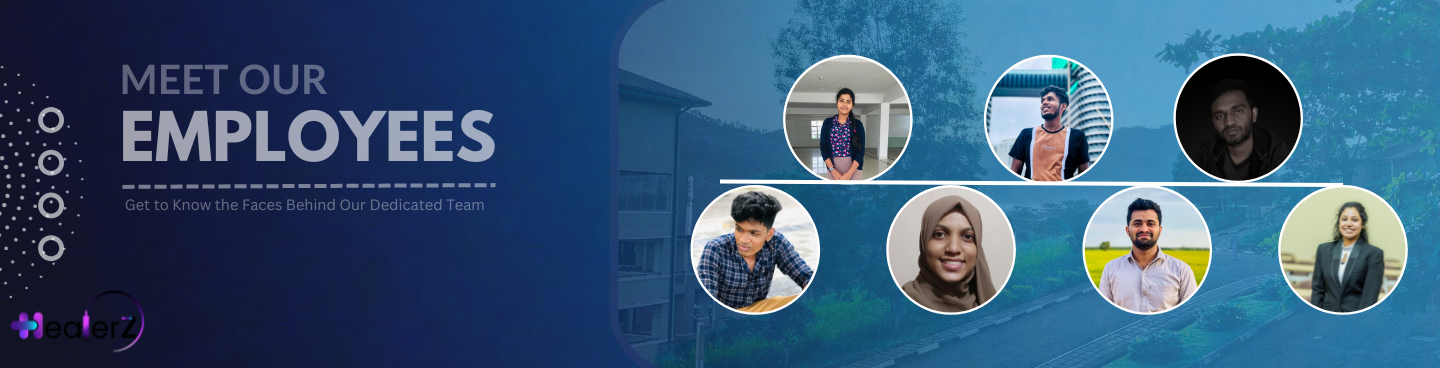
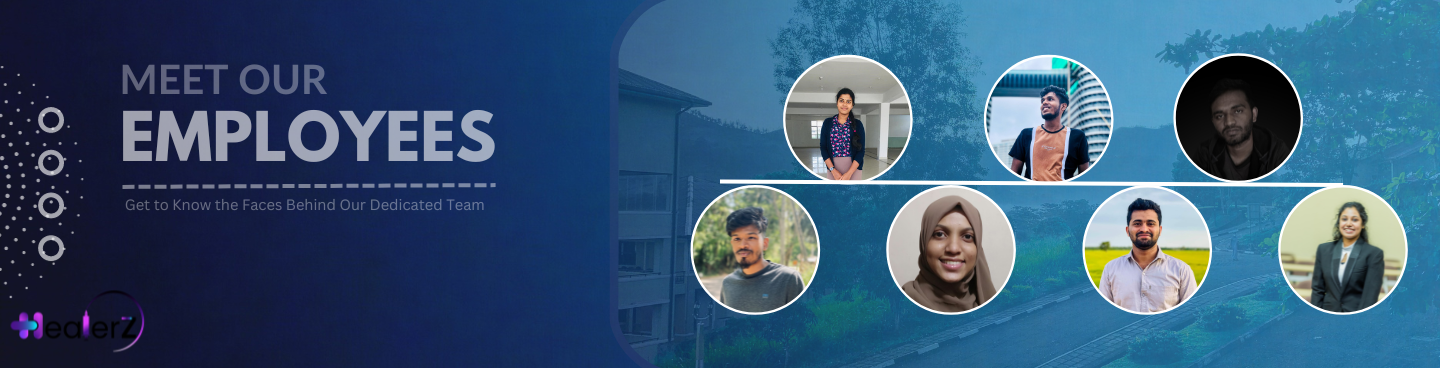
phoro chnaged

Changed region(s): [[0.4688, 0.5082, 0.5938, 0.8668]]

diff --git a/src/components/home/Hteam.js b/src/components/home/Hteam.js
@@ -5,7 +5,7 @@ import powsi from "../../assets/Powsi.jpg";
 import thanu from "../../assets/thanu.jpg";
 import pradi from "../../assets/pradi.jpg";
 import farhath from "../../assets/farhath.jpg";
-import jana from "../../assets/jana.jpg";
+import jana from "../../assets/Jana.jpg";
 import joshi from "../../assets/joshi.jpg";
 
 const Hteam = ({ onClose }) => {
